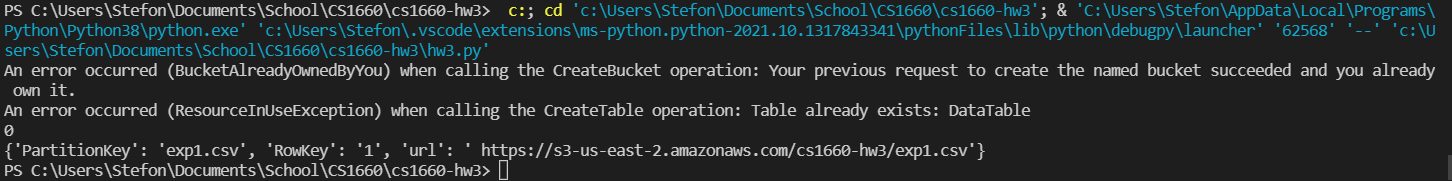
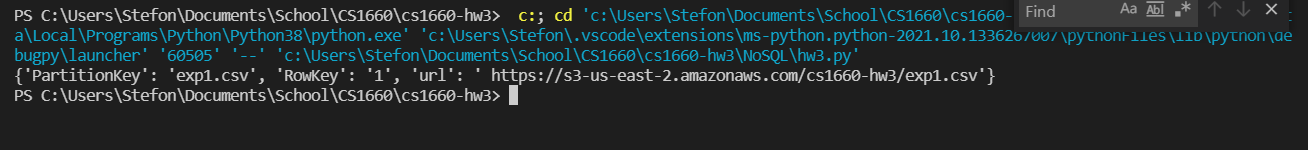
Removed errors from output

diff --git a/NoSQL/hw3.py b/NoSQL/hw3.py
@@ -2,20 +2,20 @@ import boto3
 import csv
 
 s3 = boto3.resource('s3',
-    aws_access_key_id='AKIA2P3ULVTGU63VEC33',
-    aws_secret_access_key='FAkeKkd9n4xh2baTJ3YNlbc5MfIipDn1heS3vNas'
+    aws_access_key_id='aws_access_key',
+    aws_secret_access_key='aws_secret_key'
 )
 
 try:
     s3.create_bucket(Bucket='cs1660-hw3', CreateBucketConfiguration={
     'LocationConstraint': 'us-east-2'})
 except Exception as e:  
-    print (e)
+    pass
 
 bucket = s3.Bucket("cs1660-hw3")
 bucket.Acl().put(ACL='public-read')
 
-body = open('exp1.csv', 'rb')
+body = open('NoSQL/exp1.csv', 'rb')
 
 o = s3.Object('cs1660-hw3', 'test').put(Body=body)
 
@@ -23,8 +23,8 @@ s3.Object('cs1660-hw3', 'test').Acl().put(ACL='public-read')
 
 dyndb = boto3.resource('dynamodb',
     region_name='us-east-2',
-    aws_access_key_id='AKIA2P3ULVTGU63VEC33',
-    aws_secret_access_key='FAkeKkd9n4xh2baTJ3YNlbc5MfIipDn1heS3vNas')
+    aws_access_key_id='aws_access_key',
+    aws_secret_access_key='aws_secret_key')
 try:
     table = dyndb.create_table(
     TableName='DataTable',
@@ -49,20 +49,19 @@ try:
         'WriteCapacityUnits': 5
     })
 except Exception as e:
-    print (e)
+    pass
     #if there is an exception, the table may already exist. if so...
     table = dyndb.Table("DataTable")
 
 #wait for the table to be created
 table.meta.client.get_waiter('table_exists').wait(TableName='DataTable')
-print(table.item_count)
 
-with open('experiments.csv', 'r') as csvfile:
+with open('NoSQL/experiments.csv', 'r') as csvfile:
     csvf = csv.reader(csvfile, delimiter=',', quotechar='|')
     next(csvf)
     
     for item in csvf:
-        body = open(item[4], 'rb')
+        body = open('NoSQL/' + item[4], 'rb')
         s3.Object('cs1660-hw3', item[4]).put(Body=body )
         md = s3.Object('cs1660-hw3', item[4]).Acl().put(ACL='public-read')
 
@@ -72,7 +71,7 @@ with open('experiments.csv', 'r') as csvfile:
         try:
             table.put_item(Item=metadata_item)
         except:
-            print("item may already be there or another failure")
+            pass
 
 response = table.get_item(
     Key={
